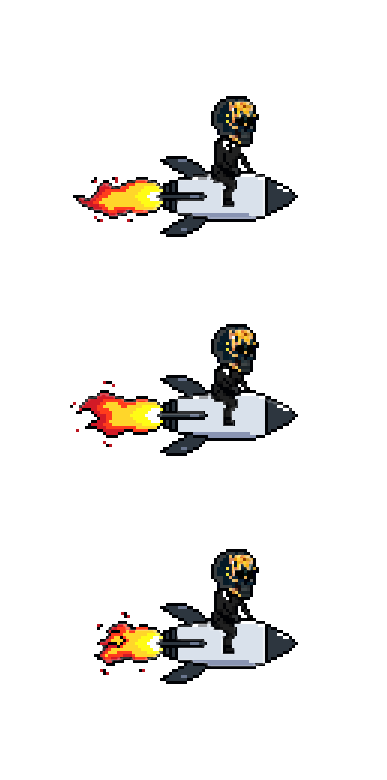
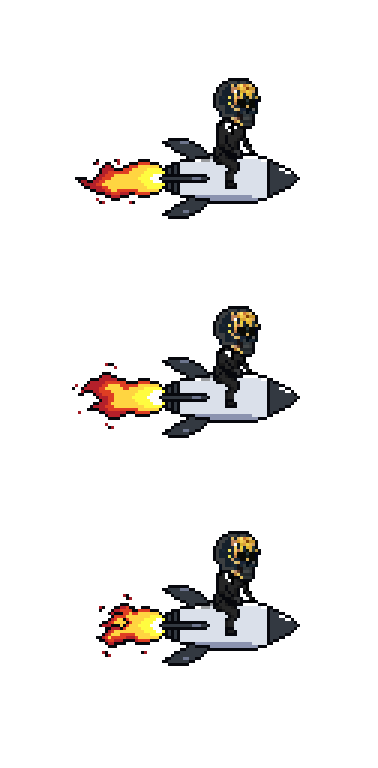
апдейт модельки мори

Changed region(s): [[0.1746, 0.0938, 0.7857, 0.3125], [0.1746, 0.375, 0.7857, 0.5938], [0.2328, 0.6875, 0.7857, 0.875]]

diff --git a/game-objects.js b/game-objects.js
@@ -99,9 +99,9 @@ foreground = {
 // Ракета (оптимизированная)
 bird = {
     animation: [
-        {spriteX: 71 - 5, spriteY: 95, spriteW: 227, spriteH: 143},   // 1 кадр (сдвинут на 5п влево)
-        {spriteX: 69, spriteY: 324, spriteW: 229, spriteH: 132},         // 2 кадр
-        {spriteX: 91 - 5, spriteY: 549, spriteW: 206, spriteH: 136}      // 3 кадр (сдвинут на 5п влево)
+        {spriteX: 66, spriteY: 95 - 20, spriteW: 232, spriteH: 148 + 20, noseX: 298-66, noseY: 178-(95-20)},   // 1 кадр
+        {spriteX: 69, spriteY: 324 - 20, spriteW: 232, spriteH: 148 + 20, noseX: 298-69, noseY: 397-(324-20)}, // 2 кадр
+        {spriteX: 86, spriteY: 549 - 20, spriteW: 232, spriteH: 148 + 20, noseX: 298-86, noseY: 625-(549-20)}  // 3 кадр
     ],
     x: 0, y: 0, w: 0, h: 0,
     frame: 0, gravity: 0, jump: 0, speed: 0, rotation: 0,
@@ -122,7 +122,9 @@ bird = {
     draw: function() {
         if (!birdVisible) return;
         if (typeof explosionActive !== 'undefined' && explosionActive) return;
-        let birdFrame = this.animation[this.frame];
+        let frame = this.animation[this.frame];
+        let scaleX = this.w / frame.spriteW;
+        let scaleY = this.h / frame.spriteH;
         ctx.save();
         let wobbleX = Math.sin(frames * this.wobbleSpeed) * this.wobbleAmount;
         if (this.engineThrust > 0) {
@@ -133,8 +135,9 @@ bird = {
         if(state.current != state.home) {
             ctx.drawImage(
                 mori_model_sprite,
-                birdFrame.spriteX, birdFrame.spriteY, birdFrame.spriteW, birdFrame.spriteH,
-                -this.w/2, -this.h/2, this.w, this.h
+                frame.spriteX, frame.spriteY, frame.spriteW, frame.spriteH,
+                -frame.noseX * scaleX, -frame.noseY * scaleY, // центрирование по носу
+                this.w, this.h
             );
         }
         ctx.restore();
@@ -660,13 +663,13 @@ function getOstankinoCollisionRects(ostankino) {
 
 // === ЗОНЫ КОЛЛИЗИИ ДЛЯ ГЛАВНОГО ГЕРОЯ ===
 bird.collisionZones = [
-  { x: (209-69-30)*0.9, y: (323-324)*0.9 + 20, w: 50*0.9, h: 65*0.9 - 10 }, // 1
-  { x: (154-69-30)*0.9, y: (373-324)*0.9 + 20 - 10, w: 55*0.9, h: 83*0.9 - 10 - 10 }, // 2
-  { x: (210-69-30)*0.9, y: (388-324)*0.9, w: 59*0.9, h: 53*0.9 }, // 3
-  { x: (269-69-30)*0.9, y: (398-324)*0.9, w: 7*0.9, h: 34*0.9 },  // 4
-  { x: (275-69-30)*0.9, y: (401-324)*0.9, w: 7*0.9, h: 28*0.9 },  // 5
-  { x: (282-69-30)*0.9, y: (404-324)*0.9, w: 7*0.9, h: 22*0.9 },  // 6
-  { x: (288-69-30)*0.9, y: (408-324)*0.9, w: 8*0.9, h: 13*0.9 }   // 7
+  { x: (209-69-30-60-20-10), y: (323-324+20-5)*0.9, w: 50*0.9, h: 65*0.9 }, // 1
+  { x: (154-69-30-60-20), y: (373-324)*0.9, w: 55*0.9, h: 83*0.9 - 30 }, // 2
+  { x: (154-69-30-60-20) + 55*0.9, y: (373-324+10)*0.9, w: 55*0.9, h: 83*0.9 - 30 - 15 }, // 3 (h-15)
+  { x: (269-69-30-60-40-10+5), y: (398-324-20+5)*0.9, w: 7*0.9, h: 34*0.9 },  // 4
+  { x: (275-69-30-60-40-10+5), y: (401-324-20+5)*0.9, w: 7*0.9, h: 28*0.9 },  // 5
+  { x: (282-69-30-60-40-10+5), y: (404-324-20+5)*0.9, w: 7*0.9, h: 22*0.9 },  // 6
+  { x: (288-69-30-60-40-10+5), y: (408-324-20+5)*0.9, w: 8*0.9, h: 13*0.9 }   // 7
 ];
 // === КОНЕЦ ДОБАВЛЕНИЯ ===
 
@@ -1324,3 +1327,27 @@ const coins = {
 // === ЗАМЕНА СПРАЙТА ГЛАВНОГО ГЕРОЯ ===
 const mori_model_sprite = new Image();
 mori_model_sprite.src = "img/separated/CharacterNew.png";
+
+// Получаем размеры первого кадра
+const firstSpriteW = 232;
+const firstSpriteH = 148;
+bird.animation = [
+    {spriteX: 66, spriteY: 95 - 20, spriteW: 232, spriteH: 148 + 20, noseX: 298-66, noseY: 178-(95-20)},   // 1 кадр
+    {spriteX: 69, spriteY: 324 - 20, spriteW: 232, spriteH: 148 + 20, noseX: 298-69, noseY: 397-(324-20)}, // 2 кадр
+    {spriteX: 86, spriteY: 549 - 20, spriteW: 232, spriteH: 148 + 20, noseX: 298-86, noseY: 625-(549-20)}  // 3 кадр
+];
+
+// Сохраняем параметры второго фрагмента для использования в третьем
+const zone2_x = (154-69-30-60-20);
+const zone2_y = (373-324)*0.9;
+const zone2_w = 55*0.9;
+const zone2_h = 83*0.9 - 30;
+bird.collisionZones = [
+  { x: (209-69-30-60-20-10), y: (323-324+20-5)*0.9, w: 50*0.9, h: 65*0.9 }, // 1
+  { x: (154-69-30-60-20), y: (373-324)*0.9, w: 55*0.9, h: 83*0.9 - 30 }, // 2
+  { x: (154-69-30-60-20) + 55*0.9, y: (373-324+10)*0.9, w: 55*0.9, h: 83*0.9 - 30 - 15 }, // 3 (h-15)
+  { x: (269-69-30-60-40-10+5), y: (398-324-20+5)*0.9, w: 7*0.9, h: 34*0.9 },  // 4
+  { x: (275-69-30-60-40-10+5), y: (401-324-20+5)*0.9, w: 7*0.9, h: 28*0.9 },  // 5
+  { x: (282-69-30-60-40-10+5), y: (404-324-20+5)*0.9, w: 7*0.9, h: 22*0.9 },  // 6
+  { x: (288-69-30-60-40-10+5), y: (408-324-20+5)*0.9, w: 8*0.9, h: 13*0.9 }   // 7
+];
